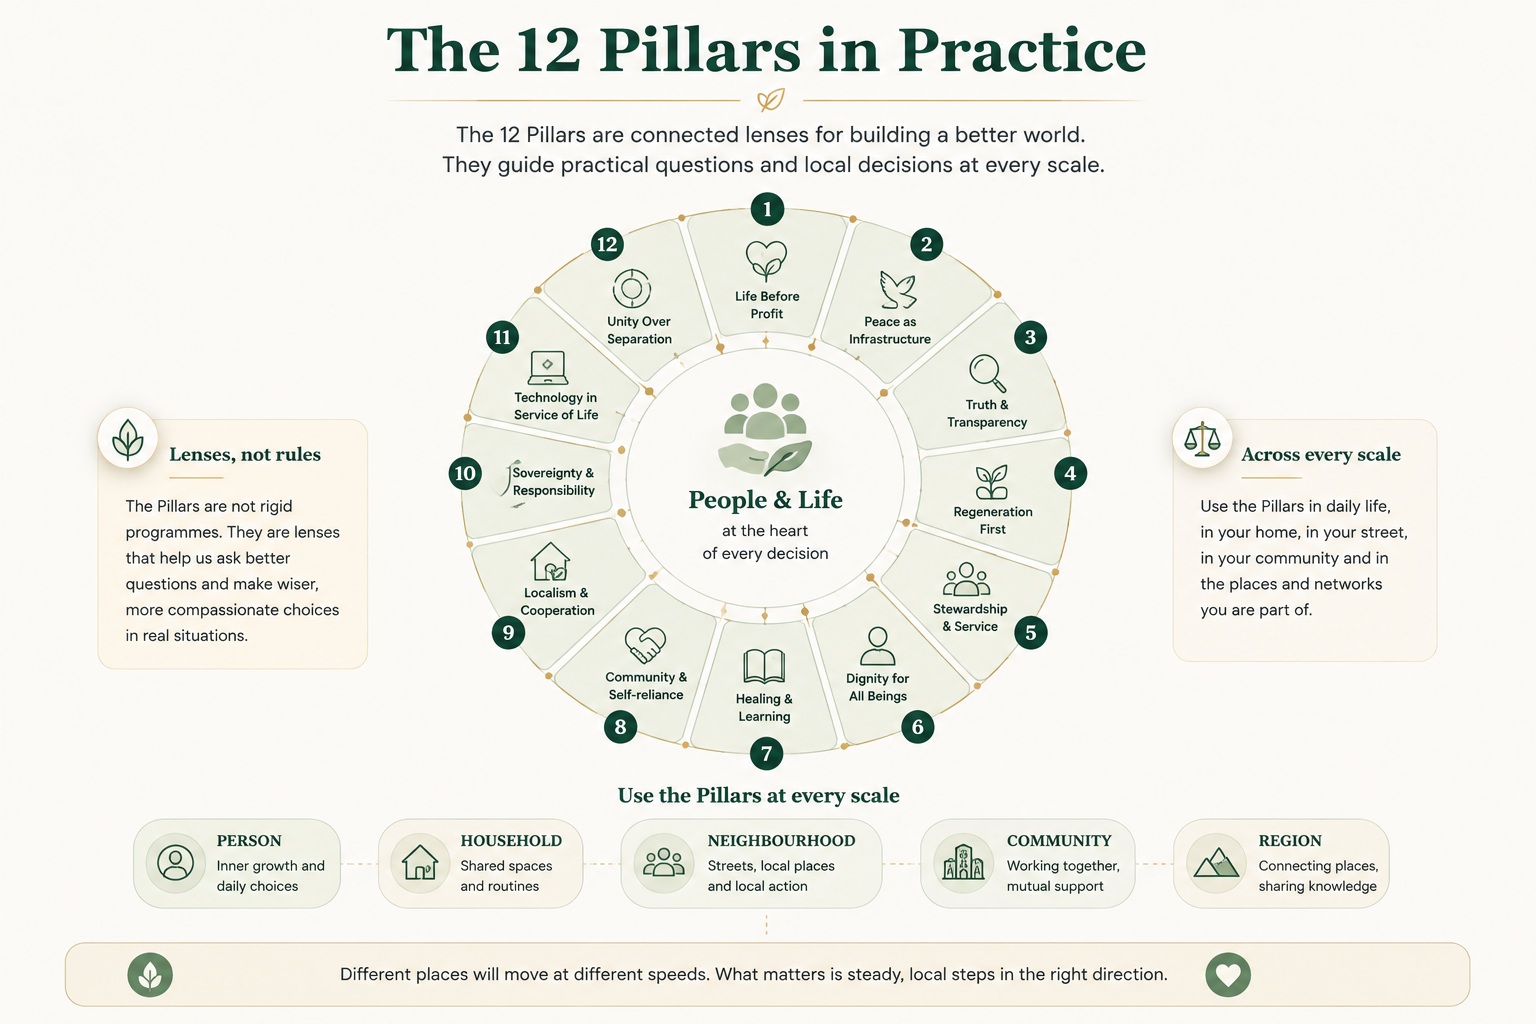
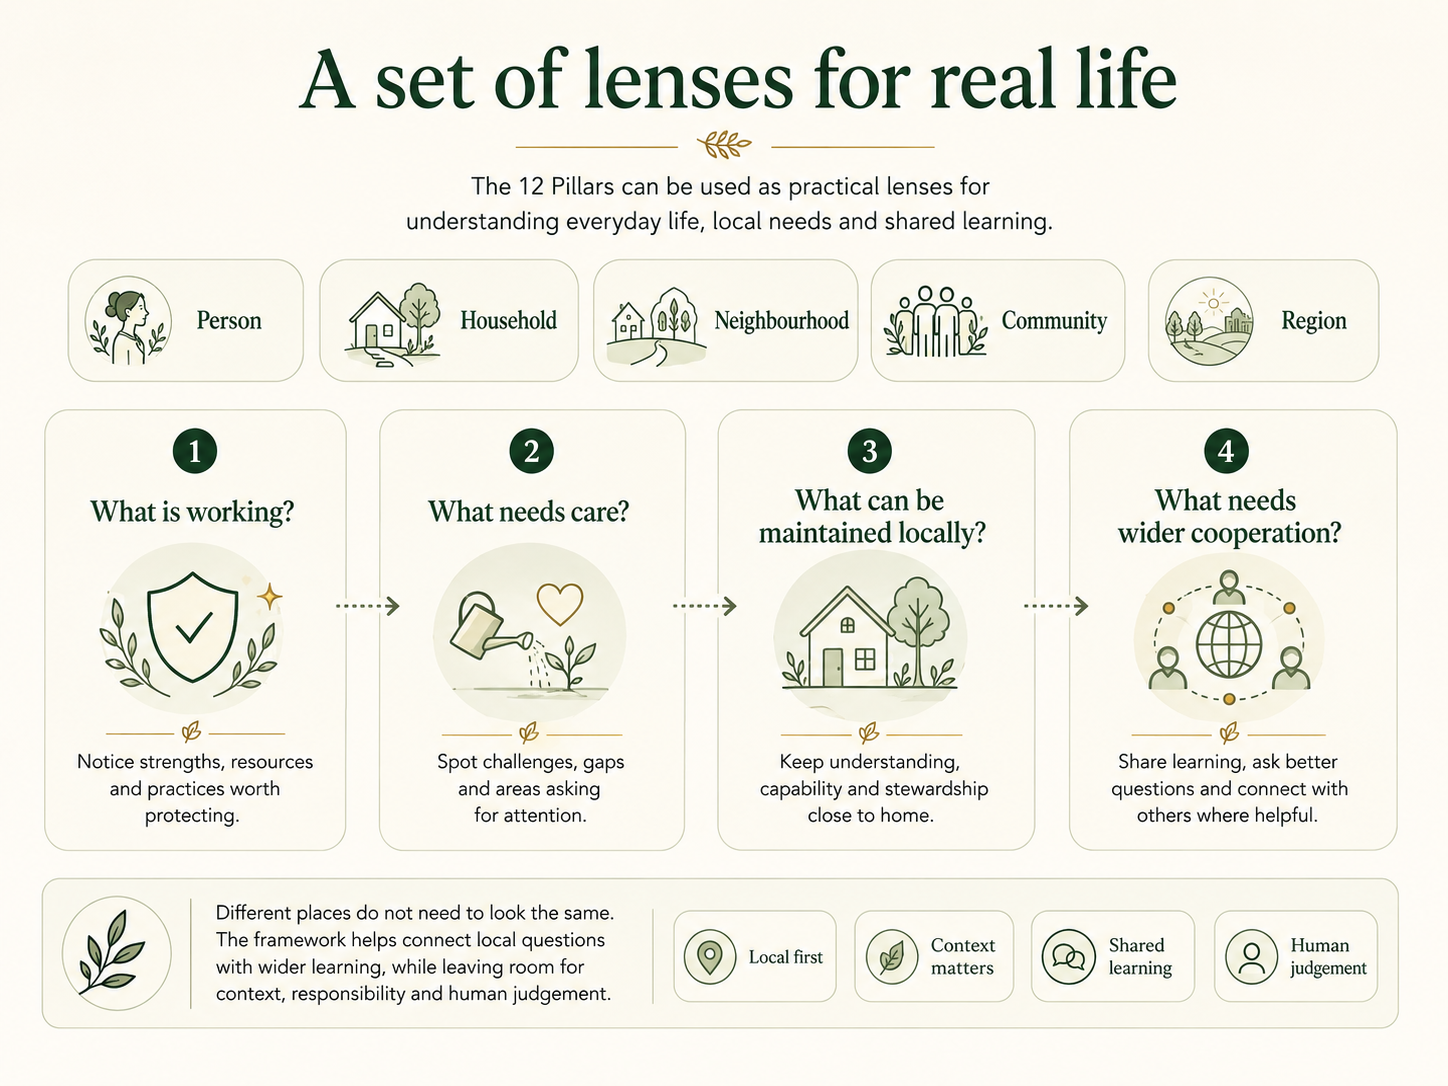
fix(website): finalise New Earth in Practice visuals

diff --git a/01_STRATEGY/WA-05/CORE_PAGES/NEW_EARTH_IN_PRACTICE_V1_CONTENT.md b/01_STRATEGY/WA-05/CORE_PAGES/NEW_EARTH_IN_PRACTICE_V1_CONTENT.md
@@ -176,13 +176,13 @@ chain.
 
 - `NEIP-VIS-001`: local capability can connect outward.
 - `NEIP-VIS-002`: possible expressions in daily life.
+- `NEIP-VIS-003`: practical lenses for using the 12 Pillars across different scales.
 - `NEIP-VIS-004`: the developing principles-to-practice bridge.
 - `NEIP-VIS-005`: a developmental relationship model for distinct systems.
 - `NEIP-VIS-006`: the intended authority ladder, not a claim that every
   project implements every level.
 - `NEIP-VIS-007`: an illustrative journey, not a fixed product workflow.
 
-`NEIP-VIS-003` is held because its embedded Pillar labels do not match the
-canonical Blueprint. `NEIP-VIS-008` is held because it is a synthetic composite
-and must not be presented as current project evidence. None of these visuals
-is public-ready by default.
+`NEIP-VIS-008` is held because it is a synthetic composite and must not be
+presented as current project evidence. None of these visuals is public-ready by
+default.
